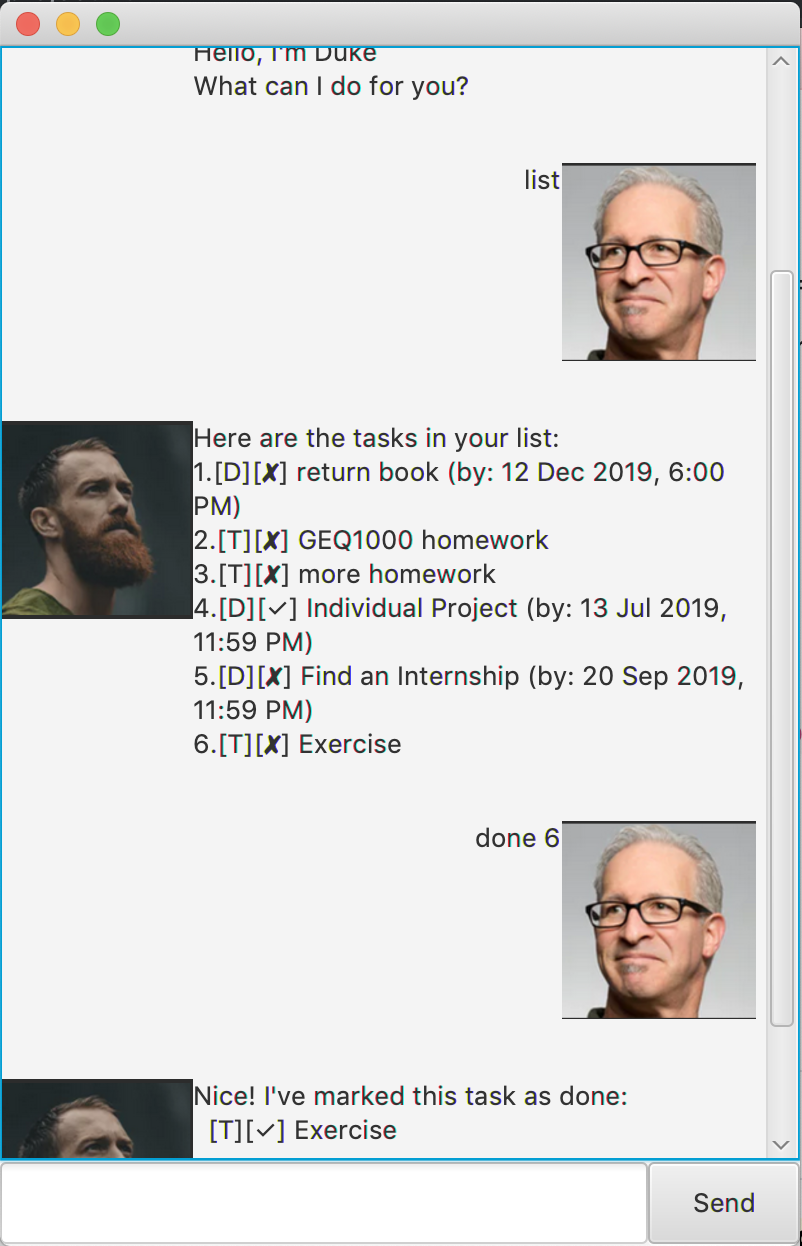
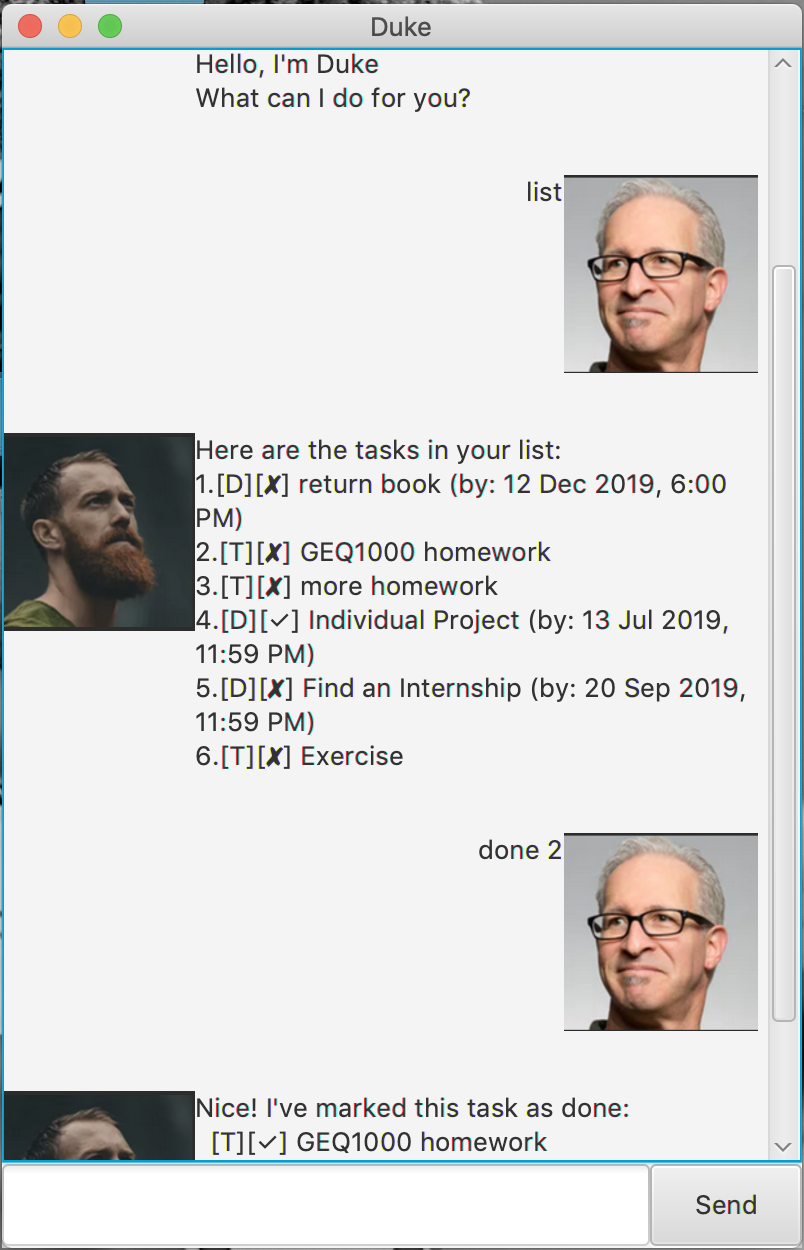
added title to MainWindow

Changed region(s): [[0.0, 0.0, 1.0, 1.0], [0.5923, 0.6404, 0.9352, 0.8234], [0.6546, 0.122, 0.9352, 0.305]]

diff --git a/docs/README.md b/docs/README.md
@@ -5,7 +5,7 @@ Furthermore, you can update these tasksto be marked as done once you have finish
 The chatbot also automatically stores these tasks on exit 
 and automatically loads them up again when you start it up the next time. Enjoy!
 
-[![Ui.png](https://i.postimg.cc/cJ9Yy42L/Ui.png)](https://postimg.cc/d7CDGvJb)
+[![Ui.png](https://i.postimg.cc/g2MqdD6p/Ui.png)](https://postimg.cc/VJCbWXRZ)
  
 ## Features 
 * Support for Todos, Events and Deadlines.
